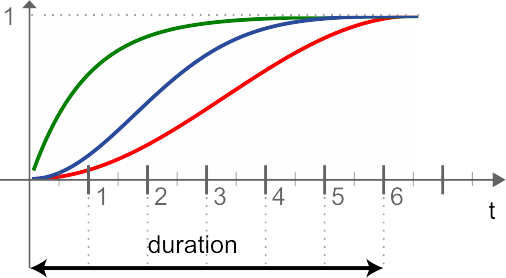
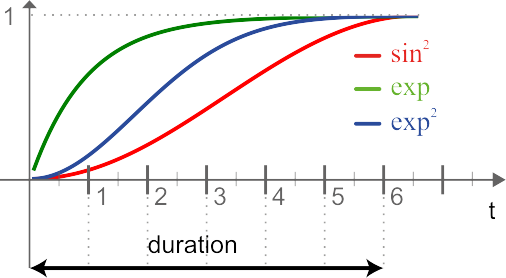
Added new mathParser signal function "squareBurst" and the documentation.

diff --git a/share/doc/user/xmlFile/mathExpressions.tex b/share/doc/user/xmlFile/mathExpressions.tex
@@ -251,6 +251,35 @@ signal. \\
            Usually the time variable \xatv{$t$} is used.
 \end{mathFunc}
 %
+\subsection{\texttt{squareBurst}}
+%
+Create data for a square burst signal, which can either be unipolar or bipolar
+(see Fig. \ref{fig:signalSquareBurst} ).
+\begin{figure}[h!]
+ \begin{center}
+   \includegraphics[width=8cm]{pics/sigSquareBurst.png}
+ \end{center}
+  \caption{Unipolar square burst.}
+  \label{fig:signalSquareBurst}
+\end{figure}
+%
+\begin{mathFunc}
+{squareBurst(freq, nperdios, bipolar, pwidth, rtime, timeval )}
+\param{freq} &  Frequency of the rectangular signal.\\
+\param{nperiods} &  Total number of periods of the pulse.\\
+\param{bipolar} & Switch for generating bipolar / unipolar signal
+\begin{itemize}
+ \item 0: unipolar signal ($ 0 \leq y \leq 1$)
+ \item 1: bipolar signal ($ -1 \leq y \leq 1$)
+\end{itemize} \\
+\param{pwidth} & Pulse width of the signal in percent ($0 \leq pw \leq 100$). \\
+\param{rtime} & Defines the rise time of the square burst. It denotes the time
+                in seconds that the pulse will take to change from low to
+                high level. \\
+\param{timeval} & Time parameter at which function gets evaluated.
+           Usually the time variable \xatv{$t$} is used.
+\end{mathFunc}
+%
 \subsection{\texttt{gauss}}
 Generates a Gaussian curve, which is either normalized to a maximum value of 1
 or to having an area of 1.

diff --git a/source/Utils/mathParser/mathParser.cc b/source/Utils/mathParser/mathParser.cc
@@ -323,7 +323,7 @@ namespace CoupledField {
     parser.DefineFun("fadeIn", FadeIn, false );
     parser.DefineFun("spike", Spike, false );
     //parser.DefineFun("cosPulseComb", CosPulseComb, false );
-    //parser.DefineFun("squareBurst", SquarePulse, false );
+    parser.DefineFun("squareBurst", SquarePulse, false );
     parser.DefineFun("gauss", Gauss, false );
     
     // Register factory for dynamic variable registering